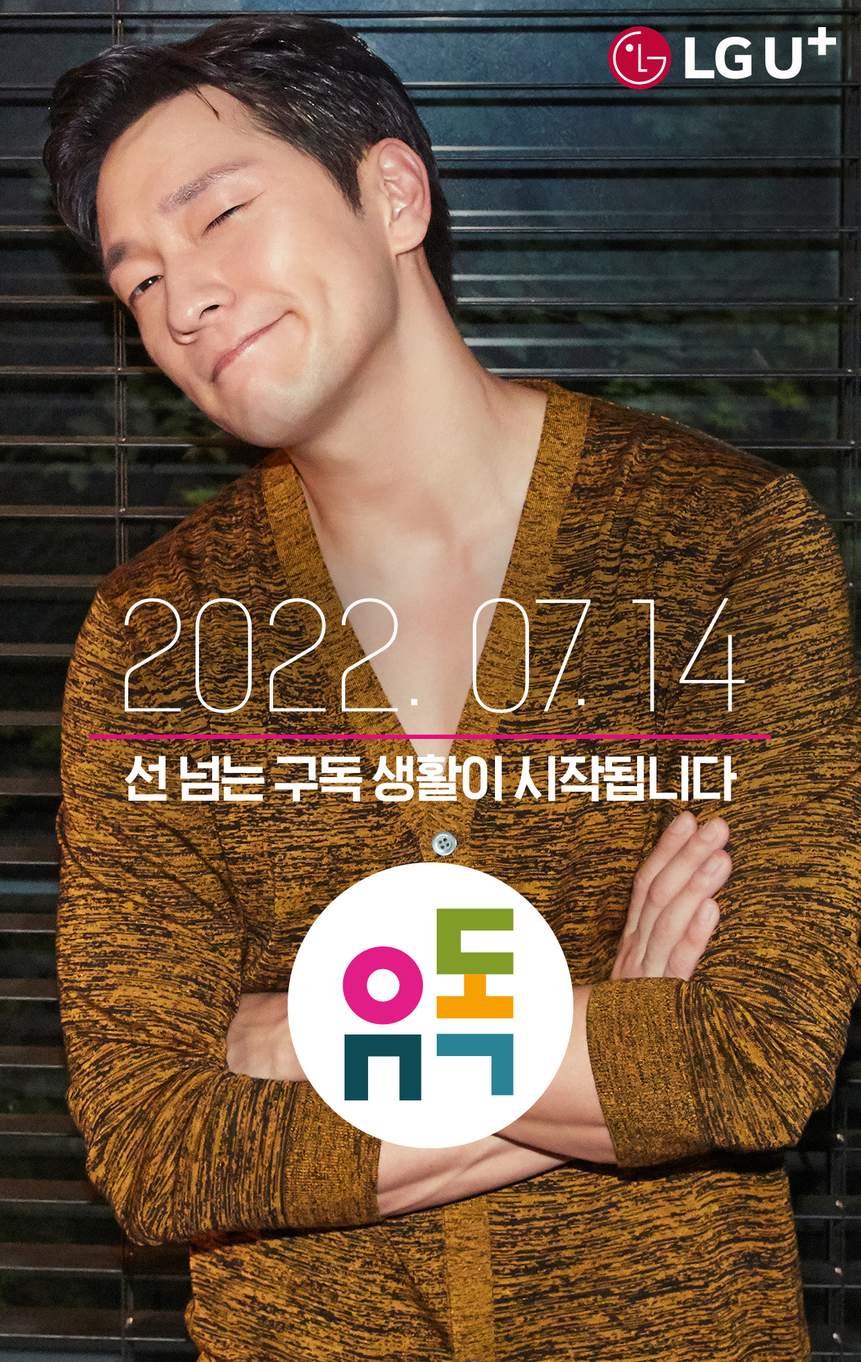
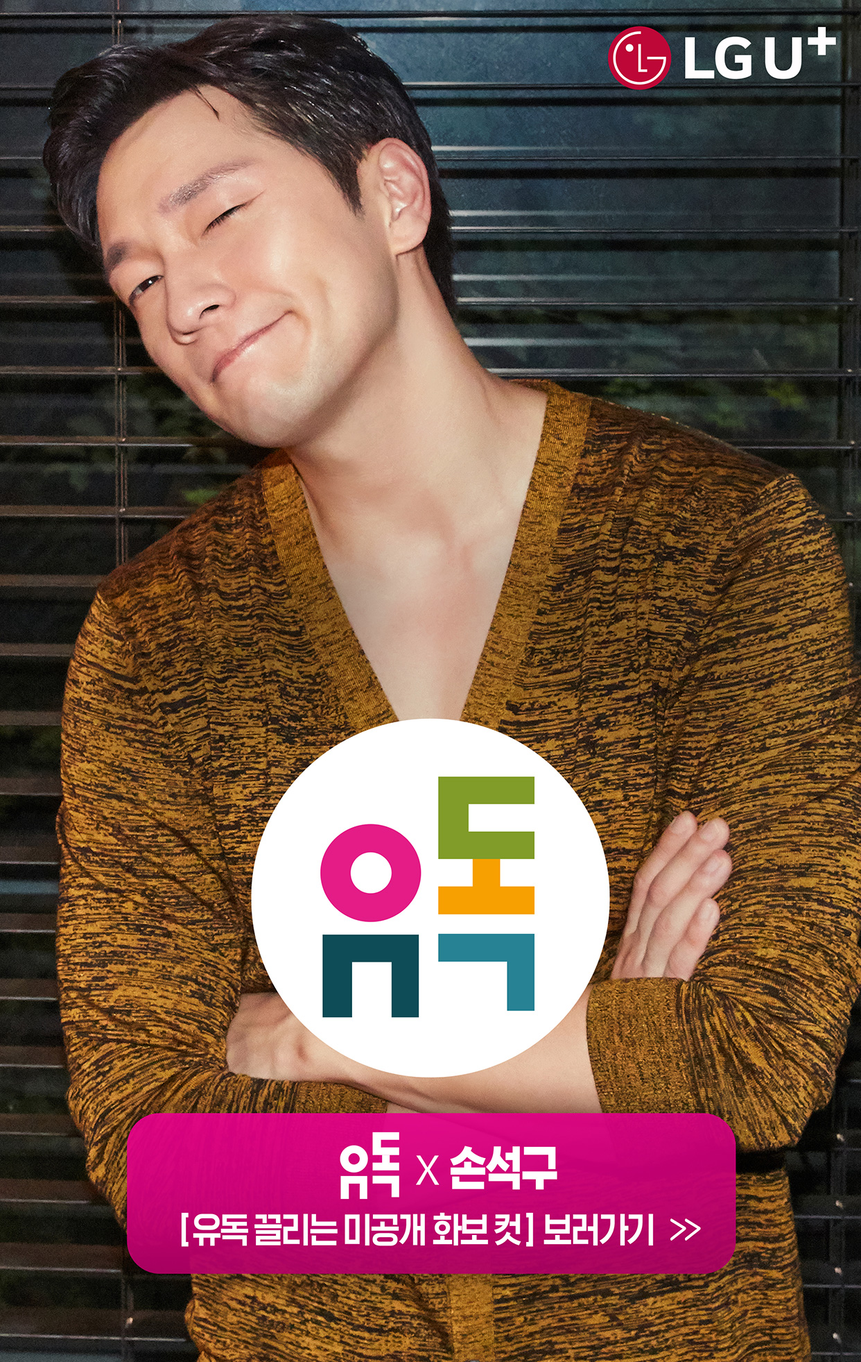
와이낫 콘텐츠 변경

diff --git a/backup/src/scss/web/app.scss b/backup/src/scss/web/app.scss
@@ -111,6 +111,14 @@ img {
 .why-not {
     &__subscribe {
         @include backdrop-content(1963, 'why-not/p_subscribe.jpg');
+
+        a {
+            position: absolute;
+            right: percentage(math.div(180, 1242));
+            bottom: percentage(math.div(128, 1963));
+            left: percentage(math.div(180, 1242));
+            height: percentage(math.div(232, 1963));
+        }
     }
 
     &__header {
